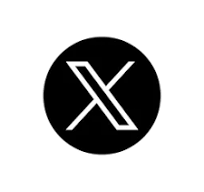
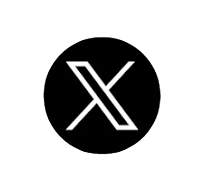
n

diff --git a/index.html b/index.html
@@ -252,7 +252,7 @@
         .follow-btn .x-icon, .x-share-btn-custom .x-icon {
             width: 22px;
             height: 22px;
-            background: #fff;
+            background: transparent;
             border-radius: 50%;
             display: flex;
             align-items: center;
@@ -269,8 +269,8 @@
             background: #1da1f2;
         }
         .follow-btn .x-icon img, .x-share-btn-custom .x-icon img {
-            width: 16px;
-            height: 16px;
+            width: 22px;
+            height: 22px;
         }
         @media (max-width: 768px) {
             .follow-btn, .x-share-btn-custom {
@@ -286,14 +286,14 @@
                 gap: 7px;
             }
             .follow-btn .x-icon, .x-share-btn-custom .x-icon {
-                width: 13px;
-                height: 13px;
-                min-width: 13px;
-                min-height: 13px;
+                width: 18px;
+                height: 18px;
+                min-width: 18px;
+                min-height: 18px;
             }
             .follow-btn .x-icon img, .x-share-btn-custom .x-icon img {
-                width: 9px;
-                height: 9px;
+                width: 16px;
+                height: 16px;
             }
         }
         
@@ -522,9 +522,9 @@
             .container {
                 width: 100vw;
                 max-width: 100vw;
-                border-radius: 0 20px 20px 0;
+                border-radius: 0 10px 20px 0;
                 padding: 0;
-                margin: 0;
+                margin: 0 -8px 0 0;
                 right: 0;
                 left: auto;
                 position: relative;
